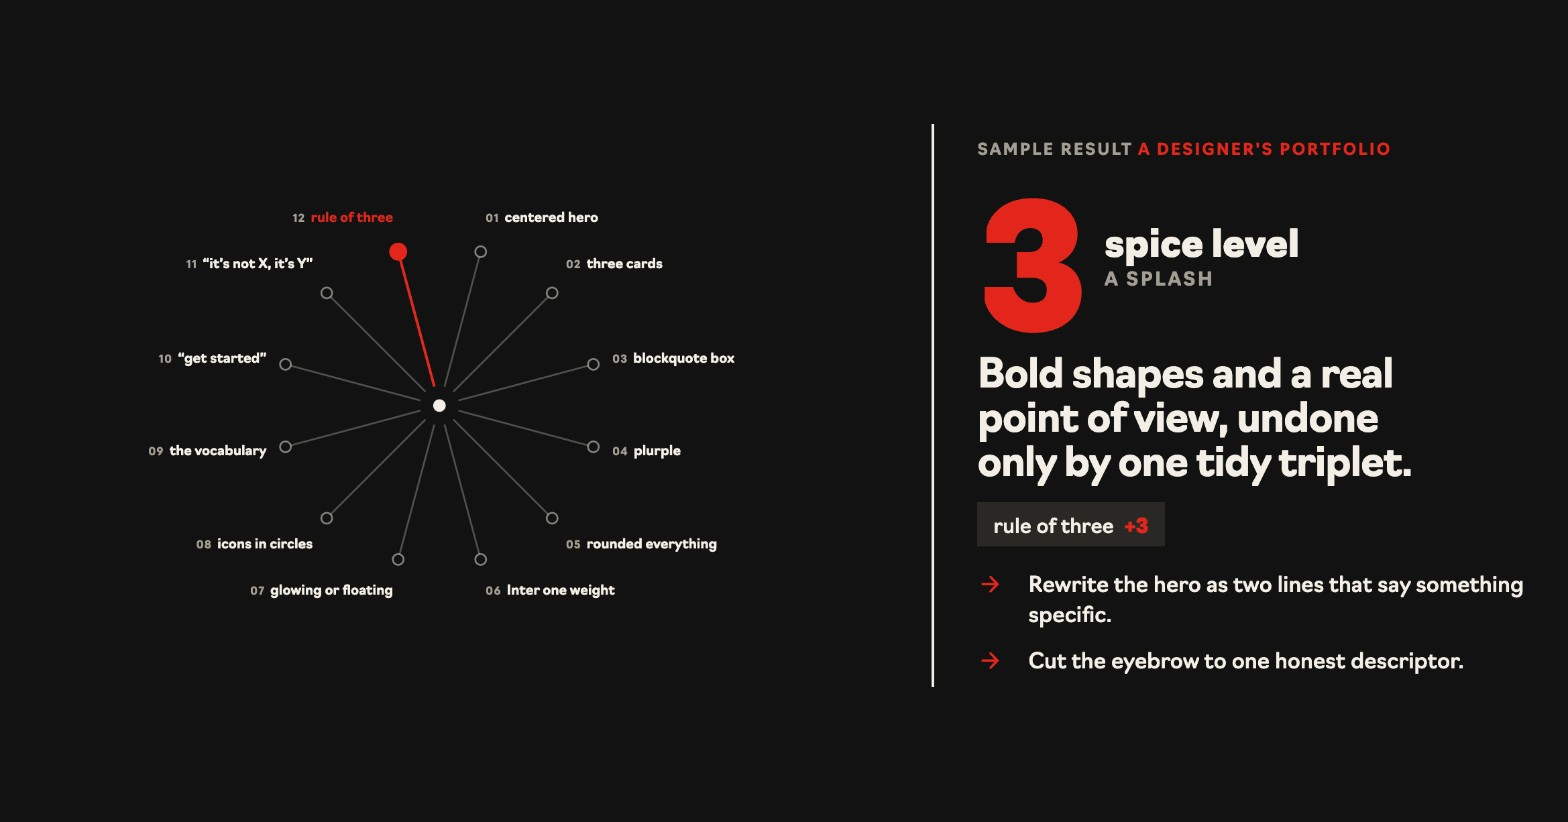
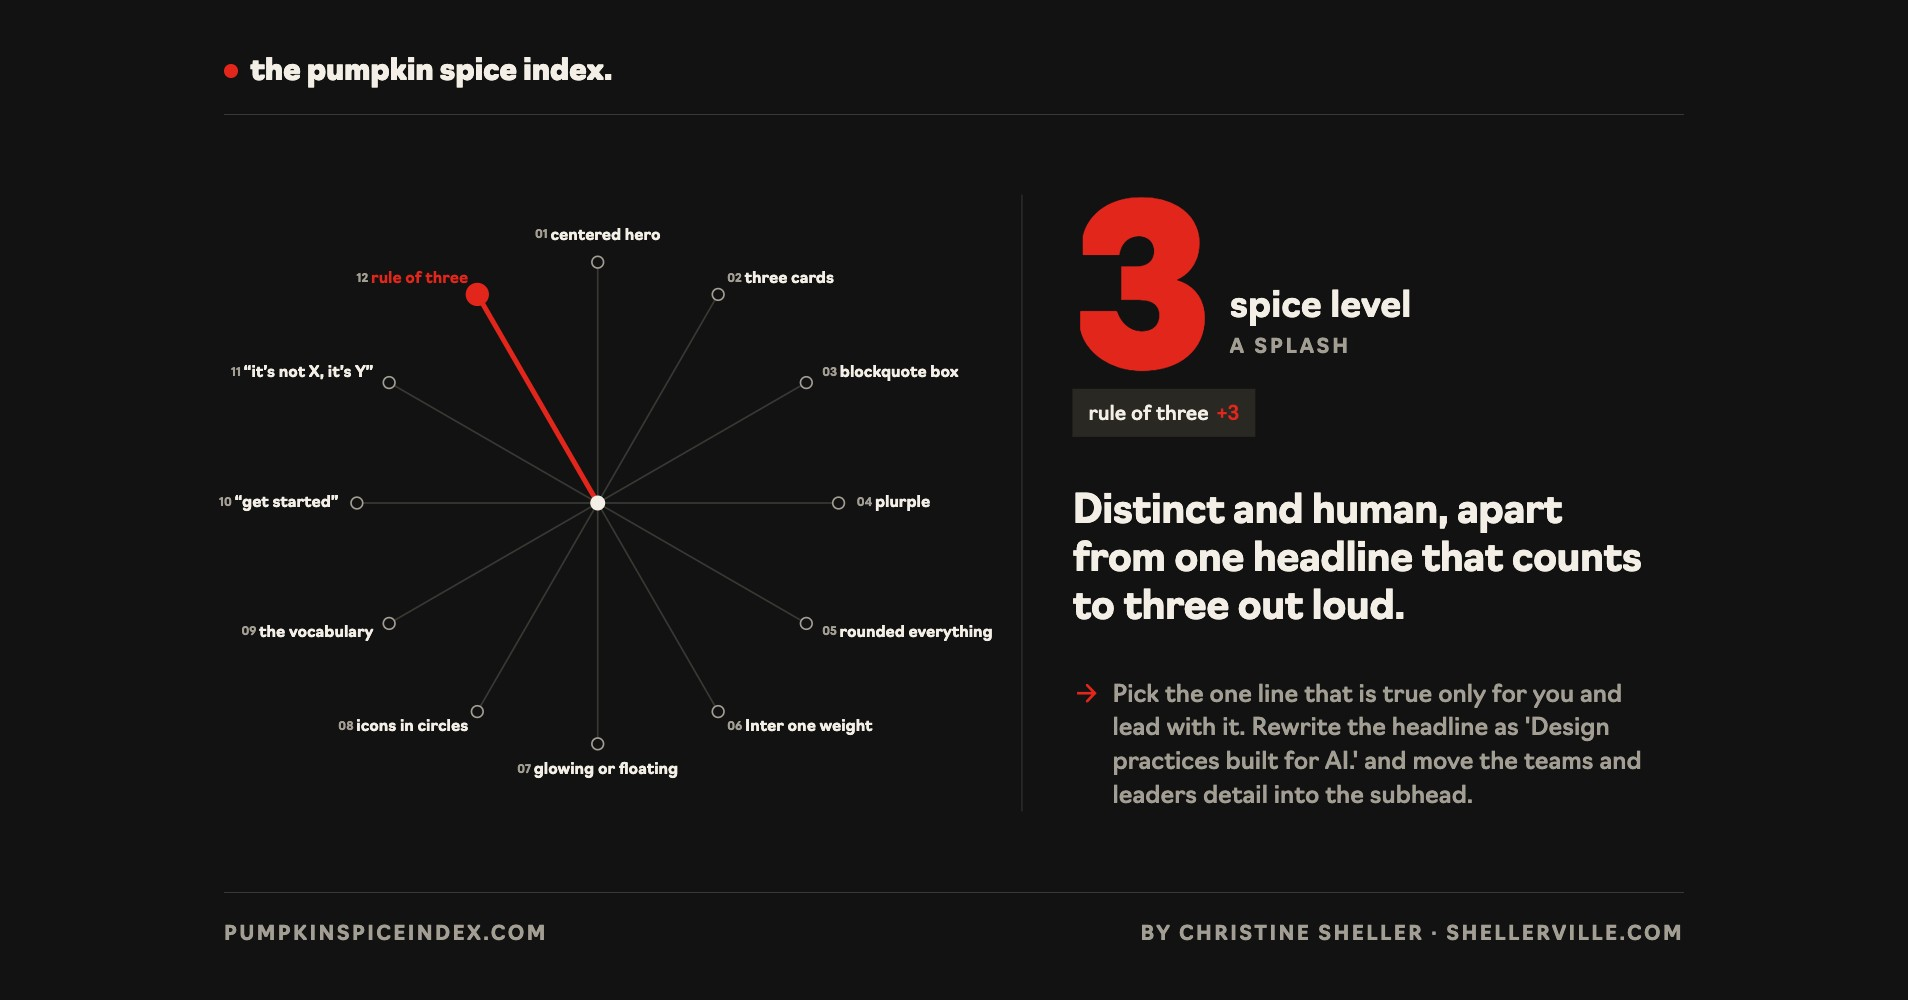
Building: pumpkin spice card uses the share card image
Claude-Session: https://claude.ai/code/session_01PCJxfZps6SQzpNiYKA2LLx

diff --git a/building.html b/building.html
@@ -75,8 +75,8 @@
         <h2 class="h2" style="color:var(--black)">My test kitchen.</h2>
       </div>
       <div class="exps">
-        <article class="exp rv"><div class="ph"><img src="images/experiment-reprint.jpg" alt="The reprint: a dot matrix postcard that reads hello stranger" loading="lazy"></div><p class="kicker">Supabase · Figma Make · Claude Code</p><h3 class="h3">The reprint</h3><p>A dot matrix print <span class="nwh">shop-like</span> generator for the AI era. Built to prove that nostalgia + new technology can be friends. Started with a lightweight design system in Figma, shaped the foundations in Claude Code, then brought it together in Figma Make. The hard part was the print engine itself: generating multiple downloadable formats and saving every print to the wall, a live Supabase integration.</p><a class="btn btn-dark" href="https://thereprint.figma.site/" target="_blank" rel="noopener">Get retro <span class="arr" aria-hidden="true">→</span></a></article>
-        <article class="exp rv"><div class="ph"><img src="images/experiment-pumpkin-spice.jpg" alt="The pumpkin spice index: a radial diagram of twelve tells and a sample result, spice level 3" loading="lazy"></div><p class="kicker">Figma Make · Supabase · Claude</p><h3 class="h3">The pumpkin spice index</h3><p>A spice level for AI work. Paste in some copy or a screenshot and it tells you how generic it is, 1 to 10, and what gave it away. Same recipe as the others: Figma Make up front, a Supabase function calling Claude for the scoring. The fun part was the twelve tells. Once you know them you can&#x27;t unsee them, which is sort of the point. It scored its own site first. Got a 1.</p><a class="btn btn-dark" href="https://www.pumpkinspiceindex.com/" target="_blank" rel="noopener">Get roasted <span class="arr" aria-hidden="true">→</span></a></article>
+        <article class="exp rv"><div class="ph"><img src="images/experiment-reprint.jpg" alt="The reprint: a dot matrix postcard that reads hello stranger" loading="lazy"></div><p class="kicker">Figma Make · Supabase · Claude Code</p><h3 class="h3">The reprint</h3><p>A dot matrix print <span class="nwh">shop-like</span> generator for the AI era. Built to prove that nostalgia + new technology can be friends. Started with a lightweight design system in Figma, shaped the foundations in Claude Code, then brought it together in Figma Make. The hard part was the print engine itself: generating multiple downloadable formats and saving every print to the wall, a live Supabase integration.</p><a class="btn btn-dark" href="https://thereprint.figma.site/" target="_blank" rel="noopener">Get retro <span class="arr" aria-hidden="true">→</span></a></article>
+        <article class="exp rv"><div class="ph"><img src="images/experiment-pumpkin-spice.jpg" alt="The pumpkin spice index share card: twelve tells on a radial diagram, spice level 3, a splash" loading="lazy"></div><p class="kicker">Figma Make · Supabase · Claude</p><h3 class="h3">The pumpkin spice index</h3><p>A spice level for AI work. Paste in some copy or a screenshot and it tells you how generic it is, 1 to 10, and what gave it away. Same recipe as the others: Figma Make up front, a Supabase function calling Claude for the scoring. The fun part was the twelve tells. Once you know them you can&#x27;t unsee them, which is sort of the point. It scored its own site first. Got a 1.</p><a class="btn btn-dark" href="https://www.pumpkinspiceindex.com/" target="_blank" rel="noopener">Get roasted <span class="arr" aria-hidden="true">→</span></a></article>
         <article class="exp rv"><div class="ph"><img src="images/experiment-deadstack.jpg" alt="Deadstack: an archive of AI obituaries, with causes of death to filter by" loading="lazy"></div><p class="kicker">Figma Make · Payload · Claude Code</p><h3 class="h3">Deadstack</h3><p>A newspaper death notices page for AI products that launched, flopped and died. Because every failed launch deserves a proper <span class="nwh">send-off</span>. Same starting process, with Payload as the CMS behind Figma Make, and it was surprisingly fun and easy to set up. Obituaries, causes of death and halftone photos all live in the admin, and every flower, message and anonymous obituary lands as a draft until I approve it.</p><a class="btn btn-dark" href="https://deadstack.figma.site/" target="_blank" rel="noopener">Pay respects <span class="arr" aria-hidden="true">→</span></a></article>
         <article class="exp rv"><div class="ph"><img src="images/experiment-snifflr.jpg" alt="Snifflr app screens: swipe, sniff, match" loading="lazy"></div><p class="kicker">Figma Make · Claude Code</p><h3 class="h3">Snifflr</h3><p>A pet social app built like a dating app. Because your dog deserves a situationship too. Same starting process: design system in Figma, foundations in Claude Code, brought together in Figma Make with plenty of back and forth in the Figma Canvas. Most of the time here went into <span class="nwh">fine-tuning</span> the design and setting up a working demo account space.</p><a class="btn btn-dark" href="https://snifflr.figma.site/" target="_blank" rel="noopener">Get matching <span class="arr" aria-hidden="true">→</span></a></article>
       </div>
